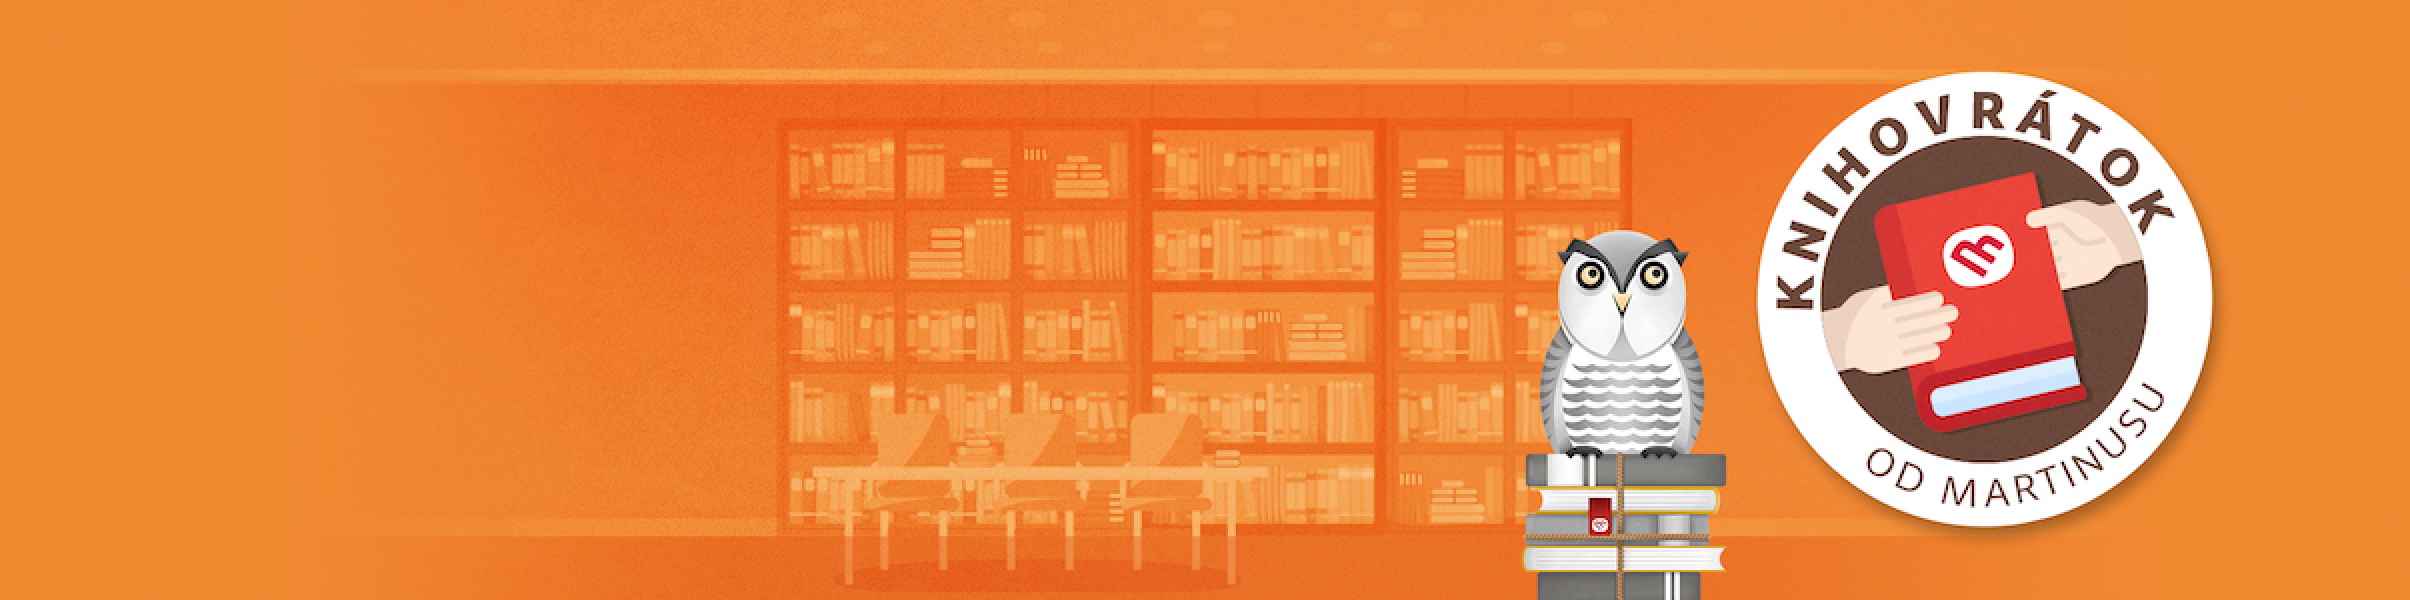
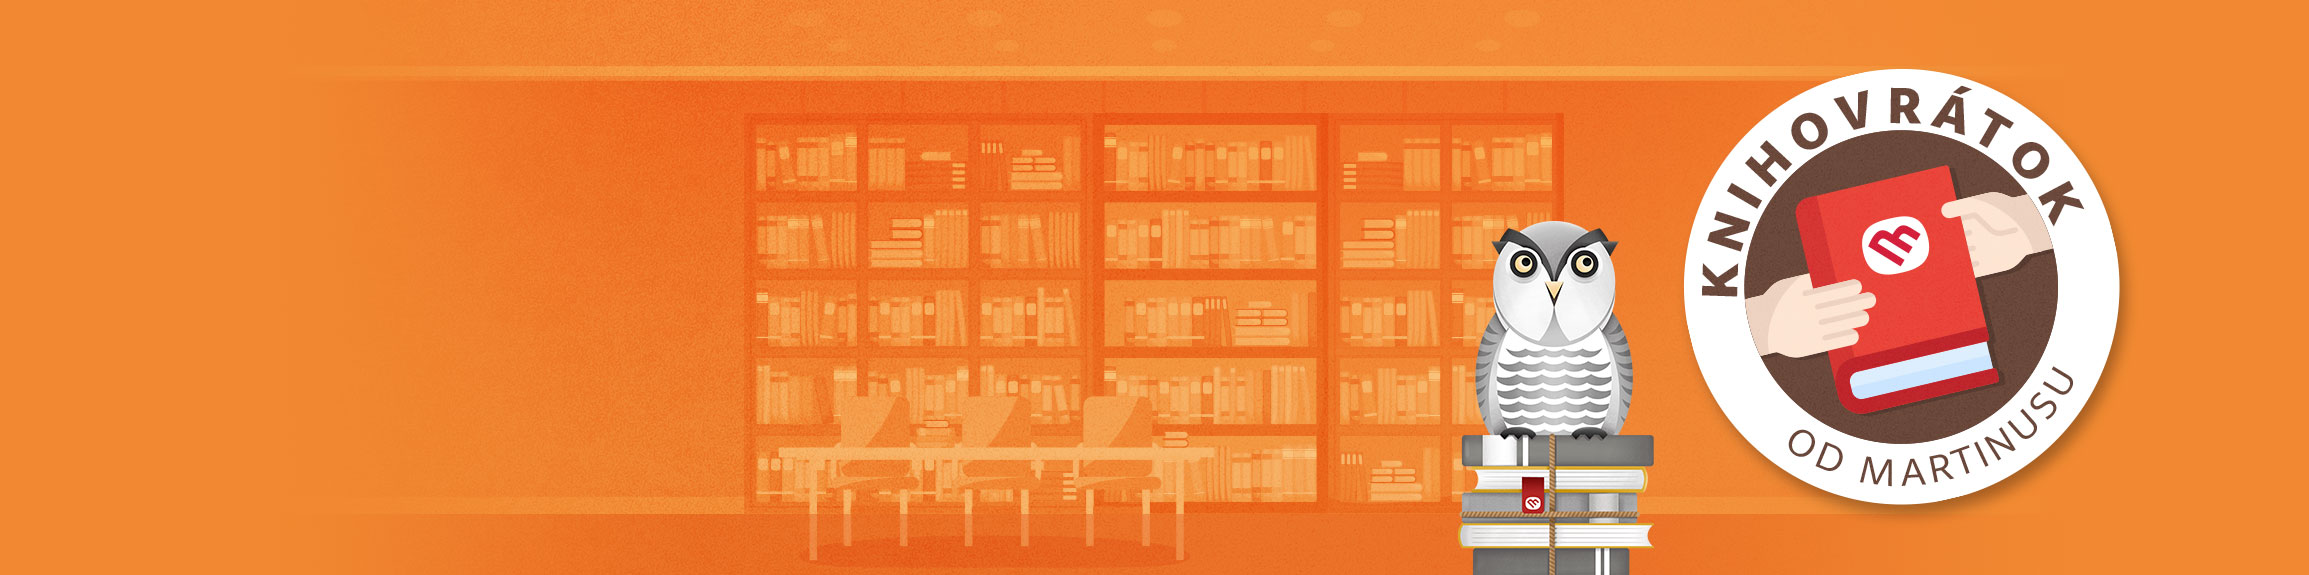
Progres

diff --git a/app/styles/pages/_buybacks.scss b/app/styles/pages/_buybacks.scss
@@ -2,7 +2,53 @@
   @include breakpoint('l') {
     background-image: url('../images/content/buybacks/header.jpg');
     background-repeat: no-repeat;
-    background-size: cover;
+    background-size: contain;
     background-position: bottom right;
+  }
+}
+
+h3 {
+  .counter {
+    width: 24px;
+  }
+}
+
+.counter {
+  color: _color(white);
+  border-radius: 50%;
+  text-align: center;
+  display: inline-block;
+
+  &--primary {
+    background: _color(primary);
+  }
+}
+
+.carousel--buybacks {
+
+  @include breakpoint('m', down) {
+    margin-right: -1.25rem;
+    margin-left: -1.25rem;
+  }
+
+  .swiper-slide {
+    max-width: 80%;
+  }
+}
+
+.faq {
+  p {
+    display: none;
+    margin-bottom: 0;
+
+    &.is-active {
+      display: block;
+    }
+  }
+
+  hr {
+    margin-top: _get-space('v');
+    margin-bottom: _get-space('v');
+
   }
 }
